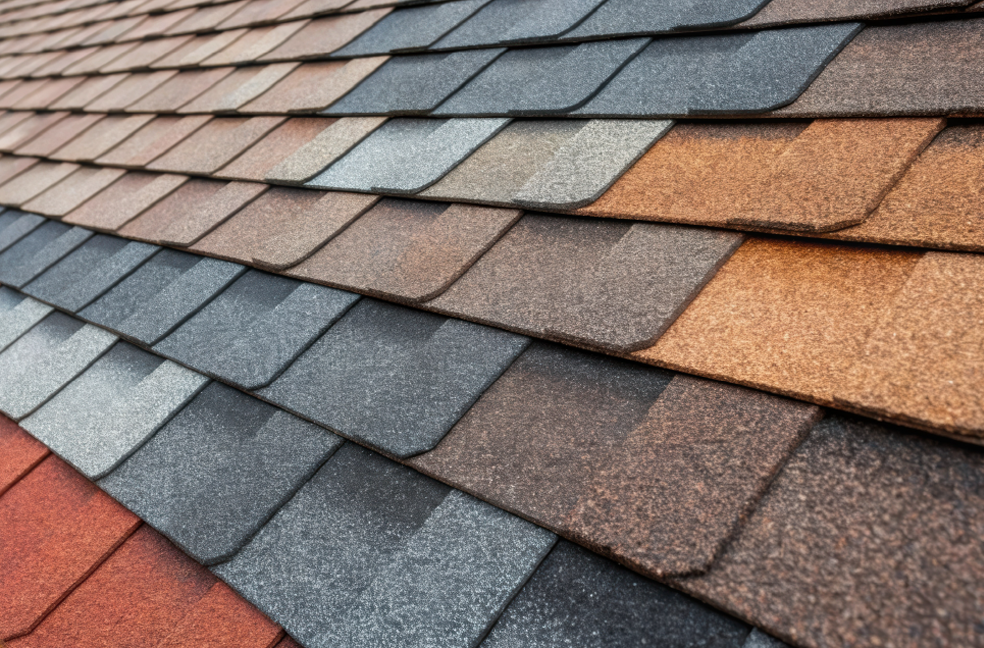
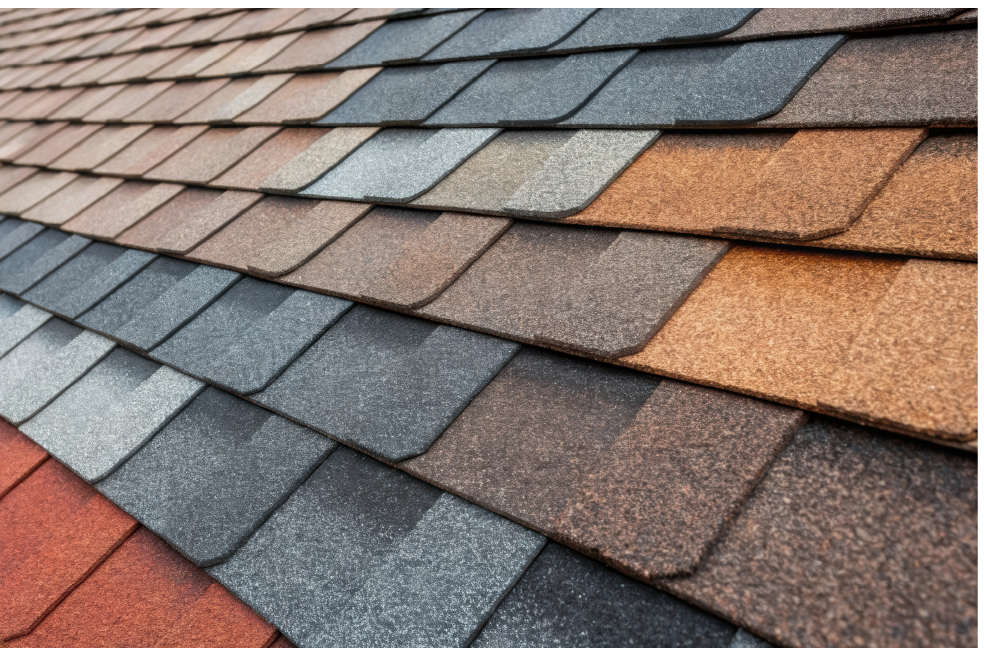
case study thumbnail

diff --git a/src/app/insights/blogs/digital-twin-in-automotive-industry-salesforce-cloud/page.js b/src/app/insights/blogs/digital-twin-in-automotive-industry-salesforce-cloud/page.js
@@ -275,7 +275,7 @@ export default function Page() {
                             <div>
                                 <span className="text-[#0092E0] 4xl:text-[20px] 2xl:text-[17px] xl:text-[17px] md:text-[16px] text-[16px]">Salesforce Automotive Cloud</span>{" "}
                                 <span className="text-[#ACACAC] 4xl:text-[20px] 2xl:text-[17px] xl:text-[17px] md:text-[16px] text-[16px]"> | </span>
-                                <span className="max-sm:block mt-2">11 December 2025</span>
+                                <span className="max-sm:block max-sm:mt-2">11 December 2025</span>
                             </div>
 
                             <div>

diff --git a/src/app/components/RealtedCaseStudies.js b/src/app/components/RealtedCaseStudies.js
@@ -93,7 +93,6 @@ export default function page({ url, currTopic }) {
             description: "The company is a leading manufacturer specializing in customized water treatment equipment. Each product is uniquely designed based on specific customer requirements, meaning no two products are alike. ",
         },
         {
-
             id: 3,
             image: "/images/case-studies/case study 3_thumb_n.webp",
             industry: "Manufacturing",